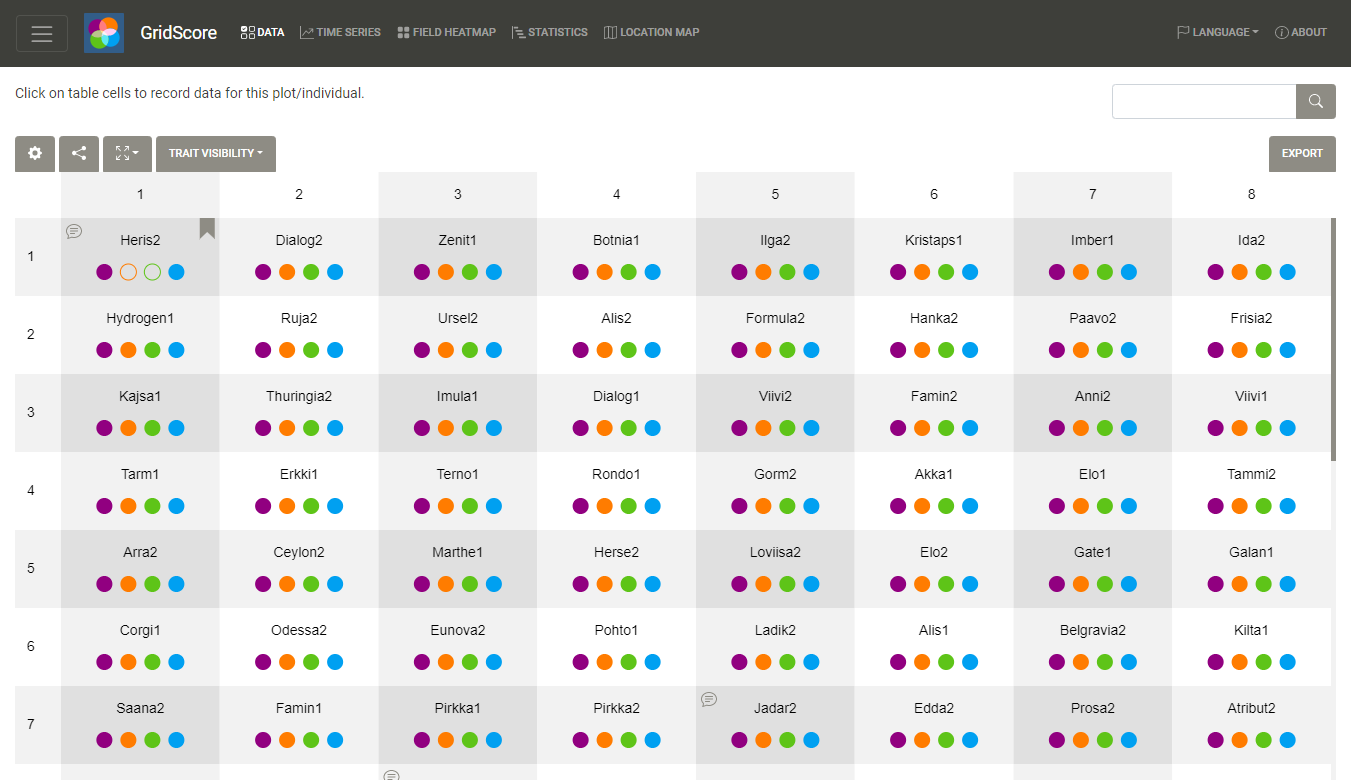
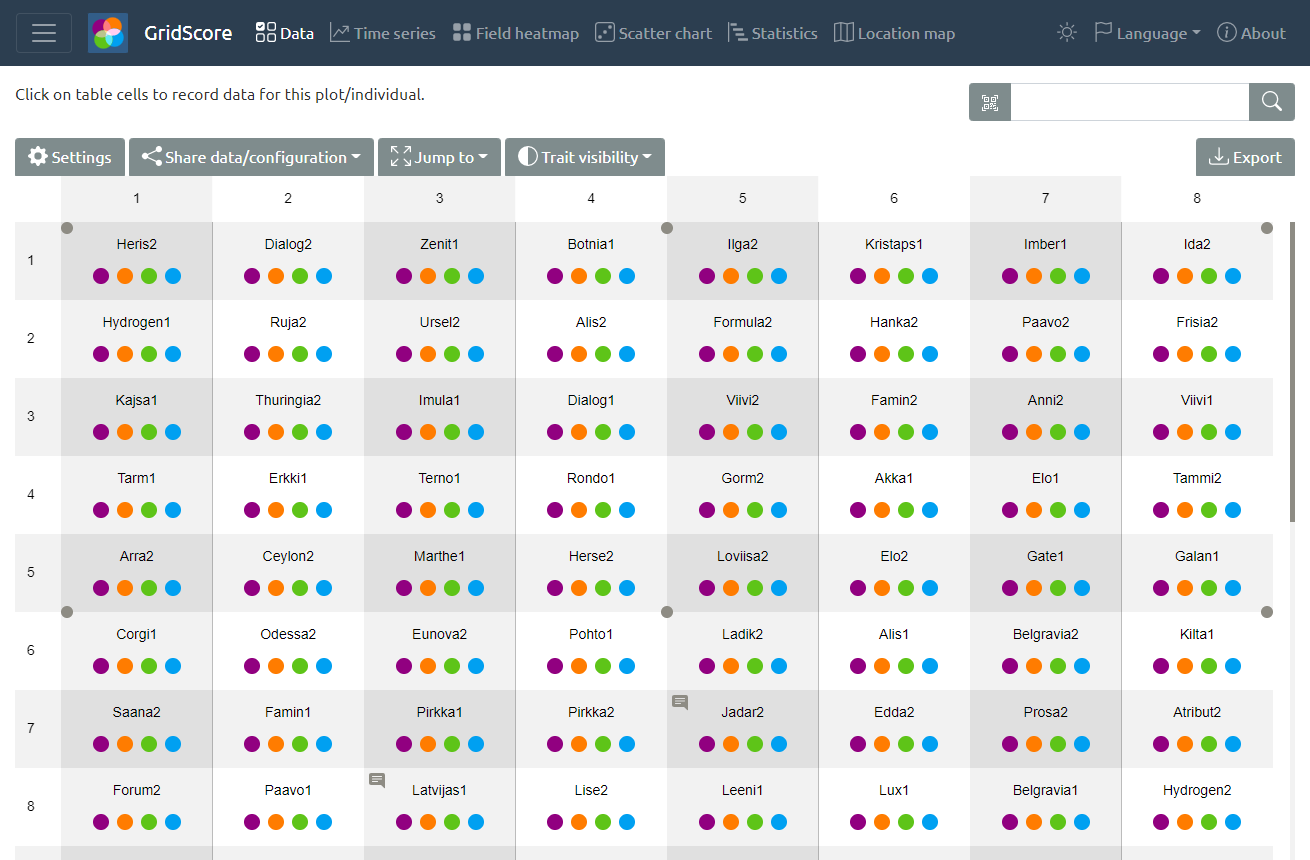
- CHG: Updates to documentation. - ADD: Added option to define field markers retrospectively.

diff --git a/src/components/modals/FieldLayoutModal.vue b/src/components/modals/FieldLayoutModal.vue
@@ -8,16 +8,20 @@
            @ok.prevent="onSubmit"
            ref="fieldLayoutModal">
     <FieldMap :rows="storeRows" :cols="storeCols" ref="map" />
+
+    <MarkerSetup :rows="storeRows" :cols="storeCols" ref="markerSetup" />
   </b-modal>
 </template>
 
 <script>
 import { mapGetters } from 'vuex'
 import FieldMap from '@/components/FieldMap'
+import MarkerSetup from '@/components/MarkerSetup'
 
 export default {
   components: {
-    FieldMap
+    FieldMap,
+    MarkerSetup
   },
   computed: {
     /** Mapgetters exposing the store configuration */
@@ -31,12 +35,21 @@ export default {
      * Fixes map layout issues on modal show event
      */
     invalidateSize: function () {
-      this.$nextTick(() => this.$refs.map.invalidateSize())
+      this.$nextTick(() => {
+        this.$refs.map.invalidateSize()
+        this.$refs.markerSetup.reset()
+      })
     },
     onSubmit: function () {
       const cornerPoints = this.$refs.map.getCornerPoints()
+      const markers = this.$refs.markerSetup.getMarkerConfig()
       if (cornerPoints && cornerPoints.length === 4) {
         this.$store.dispatch('setCornerPoints', cornerPoints)
+      }
+      if (markers) {
+        this.$store.dispatch('setMarkers', markers)
+      } else {
+        this.$store.dispatch('setMarkers', null)
       }
 
       this.hide()

diff --git a/src/store/index.js b/src/store/index.js
@@ -210,6 +210,11 @@ const storeState = {
 
       idb.updateDatasetCornerPoints(state.datasetId, newCornerPoints)
     },
+    ON_MARKERS_CHANGED_MUTATION: function (state, newMarkers) {
+      state.dataset.markers = newMarkers
+
+      idb.updateDatasetMarkers(state.datasetId, newMarkers)
+    },
     ON_BRAPI_CONFIG_CHANGED: function (state, newBrapiConfig) {
       if (newBrapiConfig && newBrapiConfig.url) {
         // Remove trailing slashes
@@ -456,6 +461,9 @@ const storeState = {
     },
     setCornerPoints: function ({ commit }, cornerPoints) {
       commit('ON_CORNER_POINTS_CHANGED_MUTATION', cornerPoints)
+    },
+    setMarkers: function ({ commit }, markers) {
+      commit('ON_MARKERS_CHANGED_MUTATION', markers)
     },
     updateDataset: function ({ commit }, update) {
       commit('ON_DATASET_UPDATED_MUTATION', update)

diff --git a/src/components/MarkerSetup.vue b/src/components/MarkerSetup.vue
@@ -44,12 +44,17 @@ export default {
     cols: {
       type: Number,
       default: 1
+    },
+    useCurrentDataset: {
+      type: Boolean,
+      default: true
     }
   },
   computed: {
     ...mapGetters([
       'storeTraitColors',
-      'storeDarkMode'
+      'storeDarkMode',
+      'storeMarkers'
     ]),
     markerCornerOptions: function () {
       return [
@@ -197,6 +202,13 @@ export default {
     reset: function () {
       if (this.resizeRunning) {
         return
+      }
+
+      if (this.useCurrentDataset && this.storeMarkers) {
+        this.markersEveryCol = this.storeMarkers.everyCol
+        this.markersEveryRow = this.storeMarkers.everyRow
+        this.markersCorner = this.storeMarkers.corner
+        this.markersUse = true
       }
 
       this.width = this.$refs.canvasWrapper.offsetWidth

diff --git a/src/plugins/idb.js b/src/plugins/idb.js
@@ -137,6 +137,14 @@ export default {
 
     return db.put('datasets', dataset)
   },
+  updateDatasetMarkers: async function (datasetId, markers) {
+    const db = await this.getDb()
+
+    const dataset = await this.getDataset(datasetId)
+    dataset.markers = markers
+
+    return db.put('datasets', dataset)
+  },
   updateDatasetAndData: async function (update) {
     const db = await this.getDb()
 

diff --git a/src/views/Setup.vue b/src/views/Setup.vue
@@ -118,7 +118,7 @@
       </b-collapse>
       <b-collapse accordion="option-accordion" id="collapse-markers" class="mt-2" @shown="$refs.markerSetup.reset()">
         <b-card>
-          <MarkerSetup :rows="rows" :cols="cols" ref="markerSetup" />
+          <MarkerSetup :rows="rows" :cols="cols" :useCurrentDataset="false" ref="markerSetup" />
         </b-card>
       </b-collapse>
     </b-form>

diff --git a/docs/overview.md b/docs/overview.md
@@ -4,27 +4,18 @@ title: GridScore Overview
 
 # GridScore Overview
 
-<img src="img/screenshot-overview.png" width="900" alt="Overview">
+<img src="img/screenshot-overview.png" style="max-width: 100%;" alt="Overview">
 
-The home screen of GridScore shows the three most common options for new users: `Set up a trial`,  `Load example data` and `View introduction tour`. The first will take you to the <a href="trial-setup.html">trial setup screen</a>, while the second loads an exemplar barley dataset that you can explore to see how GridScore works. The last option highlights the main features of GridScore in a step-by-step tour.
+The home screen of GridScore shows the three most common options for new users: `Set up a trial`, `Import trial`, `Load example data` and `View introduction tour`. The first will take you to the <a href="trial-setup.html">trial setup screen</a> where you are able to set up a new trial from scratch. To import an existing trial, select `Import trial` which takes you to the <a href="importing.html">import screen</a> where you can load existing trials that have been shared with you or import existing data into a trial. To load an exemplar trial, select the `Load example trial` option. This loads a barley dataset that has been scored with GridScore which you can explore to see how GridScore works. The last option highlights the main features of GridScore in a step-by-step tour.
 
 If you have used GridScore before, your trials are listed below. Your most recently used dataset is shown first so you can continue where you left off.
 
-The top menu takes you to the data input screen as well as some visualization screens.
+The top menu takes you to the main sections of GridScore. Those include the data input screen and a selection of data visualizations. Additionally, this is where you can toggle the dark mode as well as switch between interface languages.
 
-The button in the top left toggles the side menu which allows fast and easy switching between your trials.
-
-
-## Sharing
-
-<img src="img/screenshot-sharing.png" width="900" alt="Data sharing">
-
-GridScore can easily share your trial setup as well as all the valuable data you recorded between devices by simply scanning a QR code. Generate a code on device A then scan it on device B and your data has been transfered. Simple as that.
-
-This feature also allows you to set up your trial in the comfort of your office where you can simply copy and paste information into GridScore and then share your trial to a mobile device for when you go out into the field. When you get back, simply share it back to have all your data on your PC.
+The button in the top left toggles the side menu which allows fast and easy switching between your trials. It also gives you access to the GridScore settings.
 
 ## Settings
 
-<img src="img/screenshot-settings.png" width="900" alt="Settings">
+<img src="img/screenshot-settings.png" style="max-width: 100%;" alt="Settings">
 
 Some more advanced settings are located on the dedicated settings screen. Colors, column widths, grid lines as well as many other things can be changed here.

diff --git a/docs/sharing.md b/docs/sharing.md
@@ -1,0 +1,19 @@
+---
+title: GridScore Data Sharing
+---
+
+# Data Sharing
+
+GridScore offers a mechanism with which trial setups and collected data can easily be shared between devices simply by scanning a QR code. This makes it particularly easy to set up a trial from the comfort of your office laptop/desktop computer where you may have your germplasm lists and trait definitions and then transferring the created trial to the mobile data collection device.
+
+This is achieved by selecting the `Share data/configuration` action on the data view. If this is the first time sharing this trial, you will see a screen like the one below.
+
+<img src="img/screenshot-sharing.png" style="max-width: 100%;" alt="Data sharing">
+
+To receive the trial on the other device, select `Import trial` and use the button to start the QR code scanner. Point it at the QR code on the source device and your trial should show up in an instant.
+
+Once a trial has been shared between devices, they are all linked together through the internal trial identifier. From this point on, any device can select the `Save data to the cloud` and `Load latest data from the cloud` actions. These will either save the data back to the GridScore server or load data from it. Please ensure that these operations are not executed simultaneously on different devices as overwriting your own data is possible. If you are collecting data on different devices, make sure not do make changes at the same time. Rather load the latest data on device A, then make changes and save it back. Then you can load the updated data on device B and make changes there.
+
+<img src="img/screenshot-sharing-dropdown.png" style="max-width: 100%;" alt="Data sharing dropdown">
+
+At any time, you can use the QR code sharing mechanism again to share the trial with more devices. You can also load the updated data onto your laptop/desktop PC to make the most of the data visualizations on a larger screen.

diff --git a/docs/index.md b/docs/index.md
@@ -17,5 +17,6 @@ There are a few sub-pages that contain specific information about how GridScore 
 - <a href="overview.html">Functionality overview</a>
 - <a href="installation.html">Installation</a>
 - <a href="trial-setup.html">Trial setup</a>
+- <a href="sharing.html">Data/Trial sharing</a>
 - <a href="collecting-data.html">Collecting data</a>
 - <a href="visualizing-data.html">Visualizing data</a>

diff --git a/README.md b/README.md
@@ -21,3 +21,7 @@ All your data is stored in the app and can be exported at any time. This, howeve
 ## Installation and Documentation
 
 There is detailed information about what GridScore can do and how to use it available on the dedicated website: https://cropgeeks.github.io/gridscore/
+
+## GridScore link
+
+GridScore is available at https://ics.hutton.ac.uk/gridscore
